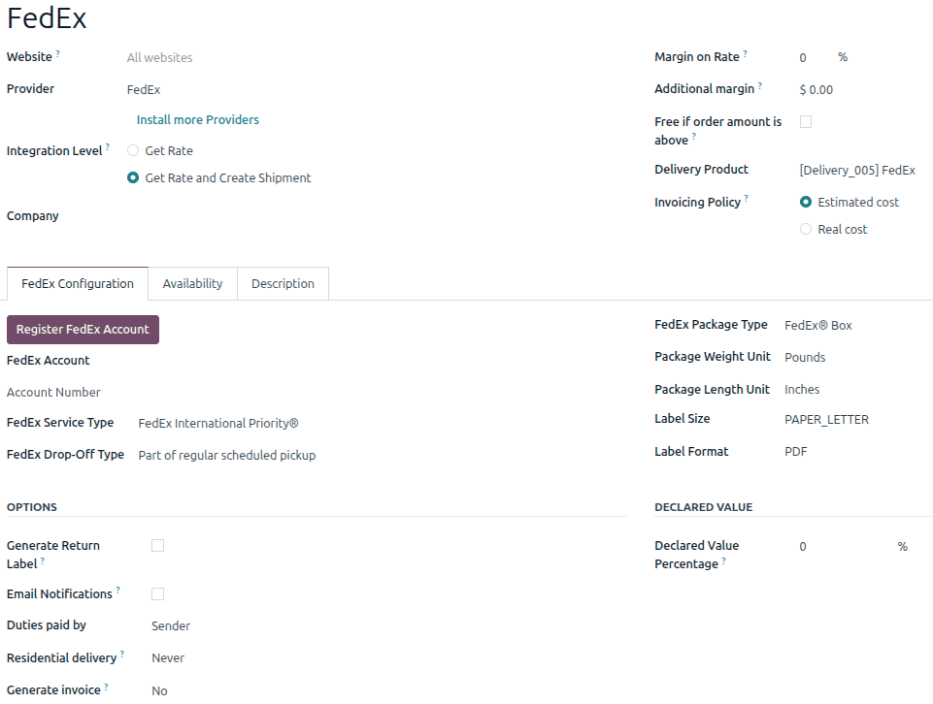
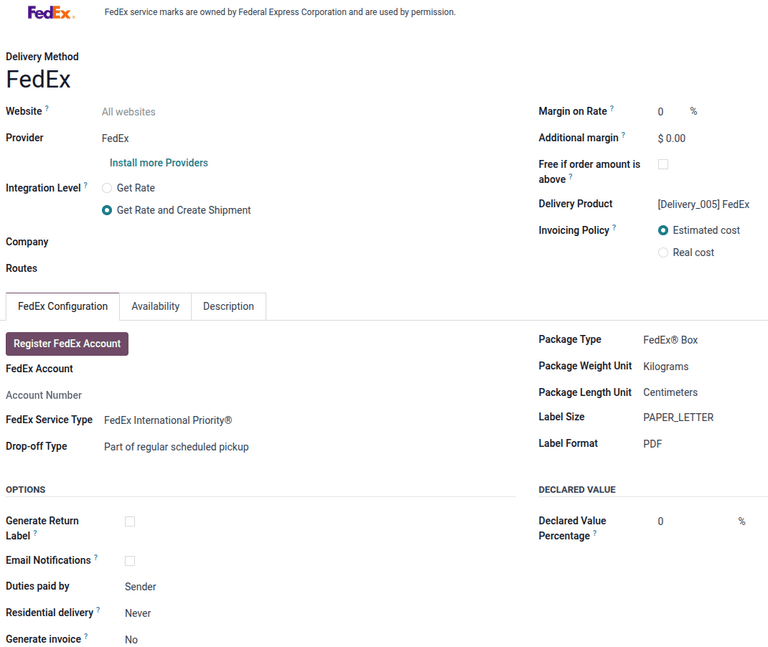
[IMP] inventory: fedex connector v18+
X-original-commit: 6f4ec9bc7b5b474410b62cebf80653c1a40ab958

diff --git a/content/applications/inventory_and_mrp/inventory/shipping_receiving/setup_configuration/fedex.rst b/content/applications/inventory_and_mrp/inventory/shipping_receiving/setup_configuration/fedex.rst
@@ -3,19 +3,9 @@ FedEx integration
 =================
 
 Integrating a FedEx account with Odoo's **Inventory** app makes it possible to :doc:`calculate
-delivery rates <../setup_configuration>`, and :doc:`generate delivery labels <labels>` within Odoo.
+shipping rates <../setup_configuration>` and :doc:`generate shipping labels <labels>` within Odoo.
 This is accomplished by enabling the FedEx *shipping connector*, then configuring at least one
 *shipping method*.
-
-.. warning::
-   As of October 21, 2025, the FedEx integration using the latest API is temporarily unavailable
-   while Odoo finalizes its solution-provider validation for FedEx. *New* setups are currently
-   blocked, and *existing* integrations using the *FedEx Shipping (Legacy)* provider will stop
-   working as of June 1, 2026.
-
-   For a temporary solution, the :doc:`Sendcloud integration <sendcloud_shipping>` also supports
-   FedEx services. To request further assistance, `submit a support ticket
-   <https://www.odoo.com/help>`_.
 
 .. note::
    This documentation contains configuration details specific to FedEx integration. See the
@@ -25,61 +15,68 @@ This is accomplished by enabling the FedEx *shipping connector*, then configurin
 Enable shipping connector
 =========================
 
-To enable the shipping connector for FedEx, open the :menuselection:`Apps` app. Search for `FedEx`.
-:guilabel:`Activate` the shipping connector.
+To enable the shipping connector for FedEx, first :doc:`activate developer mode
+<../../../../general/developer_mode>`. Then open the :menuselection:`Apps` app and search for
+`FedEx`. :guilabel:`Activate` the `delivery_fedex_certified` shipping connector.
 
-Configure delivery method
+.. image:: fedex/correct-module.png
+   :alt: The delivery_fedex_certified connector is installed.
+
+.. important::
+   Other FedEx modules are out-of-date and should not be installed.
+
+Configure shipping method
 =========================
 
-After the FedEx shipping connector is enabled, it is necessary to configure at least one delivery
-method. After doing so, the delivery method can be included in sales orders (SOs) and used to
-compute delivery costs and print delivery labels.
+After the FedEx shipping connector is enabled, ensure that *Delivery Methods* is enabled. Navigate
+to :menuselection:`Inventory app --> Configuration --> Settings`, and scroll to the *Shipping*
+section. Enable :guilabel:`Delivery Methods`, then click :guilabel:`Save` at the top of the
+*Settings* page.
 
-To see all delivery methods for every shipper with a connector enabled, navigate to
-:menuselection:`Inventory app --> Configuration --> Delivery Methods`.
+After *Delivery Methods* is enabled, it is necessary to configure at least one shipping method.
+After doing so, the shipping method can be included in sales orders (SOs), and used to compute
+shipping costs and print shipping labels.
 
-Select a delivery method to open its form. Alternatively, click :guilabel:`New` to open a blank
-form, and configure a new delivery method.
+To see all shipping methods for every shipper with a connector enabled, navigate to
+:menuselection:`Inventory app --> Configuration --> Shipping Methods`.
+
+Select a FedEx shipping method to open its form. Alternatively, click :guilabel:`New` to open a
+blank form, and configure a new shipping method.
 
 .. image:: fedex/fedex-form.png
-   :alt: The form for a FedEx delivery method.
+   :alt: The form for a FedEx shipping method.
 
 General information
 -------------------
 
-At the very top of a delivery method form are fields used to configure the way the method operates
+At the very top of a shipping method form are fields used to configure the way the method operates
 in Odoo. In the :guilabel:`Provider` field, select :guilabel:`FedEx` from the drop-down menu, if it
 is not already selected.
 
-The rest of the fields in this section are general to all delivery providers. For details on how to
-fill them out, see the documentation on :doc:`third-party shippers <third_party_shipper>`.
+The remaining fields should be completed as outlined in the
+:ref:`inventory/shipping_receiving/configure-delivery-method` section.
 
 FedEx Configuration tab
 -----------------------
 
-The options in the *Fedex Configuration* tab of a FedEx shipping method form are used to connect the
-method to a FedEx account and configure the delivery details associated with the method (drop-off
+The options in the *FedEx Configuration* tab of a FedEx shipping method form are used to connect the
+method to a FedEx account, and configure the shipping details associated with the method (drop-off
 type, package type, etc.).
 
-A FedEx business account is required to obtain the information needed to fill out the fields in
-this tab. To create a new account, navigate to FedEx's `Open Account
+A FedEx business account is required to obtain the information needed to fill out the fields in this
+tab. To create a new account, navigate to FedEx's `Open Account
 <https://www.fedex.com/en-us/open-account.html>`_ page, click on :guilabel:`Create Account`, and
 follow the instructions.
 
-Then, register the FedEx account in the database. Click the :guilabel:`Register FedEx Account`
-button. The *FedEx Account Registration* window opens. Accept the end user license agreement (EULA)
-by selecting the :guilabel:`I acknowledge the reading of the FedEx End User License Agreement` and
-:guilabel:`I accept the terms of FedEx EULA to start shipping` checkboxes, then click
-:guilabel:`Accept and Continue`.
+Register FedEx account in database
+~~~~~~~~~~~~~~~~~~~~~~~~~~~~~~~~~~
 
-An *account number* is the unique number assigned to each FedEx account.
+After registering for a business account through FedEx, register the FedEx account in the database.
+Click the :guilabel:`Register FedEx Account` button. The *FedEx Account Registration* window opens.
 
-To find a FedEx account number, log in to a FedEx account at https://www.fedex.com. Click on the
-account holder's name in the top-right corner of the screen, and select :menuselection:`My Profile`
-from the drop-down menu.
-
-On the profile page, click :guilabel:`Account Management` on the left side of the screen. The
-account number is displayed on this screen.
+Accept the end user license agreement (EULA) by selecting the :guilabel:`I acknowledge the reading
+of the FedEx End User License Agreement` and :guilabel:`I accept the terms of FedEx EULA to start
+shipping` checkboxes, then click :guilabel:`Accept and Continue`.
 
 In the *FedEx Account Registration - Shipper Information* window, enter the :guilabel:`FedEx Account
 Number`. Enter the name of the company in the :guilabel:`Customer Name` field and provide the
@@ -94,37 +91,53 @@ multi-factor authentication (MFA). Two options are available:
 - :guilabel:`Secure Code Validation`: Receive a PIN via :guilabel:`Email`, :guilabel:`SMS`, or
   :guilabel:`Voice Call`.
 
+Click :guilabel:`Continue` to proceed.
+
+If validating via invoice, in the *FedEx Account Registration - Invoice Validation* window, enter a
+recent :guilabel:`Invoice Number`, :guilabel:`Invoice Date`, :guilabel:`Invoice Amount`, and the
+:guilabel:`Currency` used on the invoice. Click :guilabel:`Validate Invoice`.
+
+.. image:: fedex/invoice-validation.png
+   :alt: A completed Invoice Validation form.
+
+If validating via PIN, in the *FedEx Account Registration - PIN Validation* window, select from the
+list of :guilabel:`PIN Options`, then click :guilabel:`Send Code`. Enter the :guilabel:`6 digits
+secure code`, then click :guilabel:`Validate Code`.
+
+.. image:: fedex/pin-validation.png
+   :alt: A completed PIN Validation form.
+
 If successful, the *FedEx Account Registration - Success* window displays, and the account is
 available for all companies. To change this setting, click :guilabel:`Open FedEx Account Form` and
 modify the company settings.
 
-In the *FedEx Configuration* tab, provide more information about the delivery method:
+In the *FedEx Configuration* tab, provide more information about the shipping method:
 
 - :guilabel:`FedEx Service Type`: Select the FedEx service used to ship a package.
-- :guilabel:`FedEx Drop-Off Type`: Select the method for getting a package into FedEx's possession.
-- :guilabel:`FedEx Package Type`: Select the type of package used for the shipping method.
+- :guilabel:`Drop-Off Type`: Select the method for getting a package into FedEx's possession.
+- :guilabel:`Package Type`: Select the type of package used for the shipping method.
 - :guilabel:`Package Weight Unit`: Select the unit of measure used to weigh packages.
 - :guilabel:`Package Length Unit`: This field changes based on what is selected in the
   :guilabel:`Package Weight Unit` field. If :guilabel:`Pounds` is selected, the length unit updates
   to :guilabel:`Inches`. If :guilabel:`Kilograms` is selected, the length unit updates to
   :guilabel:`Centimeters`.
-- :guilabel:`Label Type`: Select the type of shipping label used for packages.
+- :guilabel:`Label Size`: Select the type of shipping label used for packages.
 - :guilabel:`Label Format`: Select the file format used by Odoo to generate shipping labels.
 
 .. important::
-   The options that should be selected on the *FedEx Configuration* tab of a delivery method depend
+   The options that should be selected on the *FedEx Configuration* tab of a shipping method depend
    on the negotiated shipping services of the associated FedEx account. To confirm the available
    services for a FedEx account, visit the *Account Management* page after logging in to the FedEx
    website or speak with a customer service representative.
 
 Options section
-~~~~~~~~~~~~~~~
+***************
 
 The :guilabel:`Options` section of the *FedEx Configuration* tab provides a few additional options
-to further configure the delivery method:
+to further configure the shipping method:
 
-- :guilabel:`Generate Return Label`: Select this checkbox to automatically generate a label when a
-  delivery is validated.
+- :guilabel:`Generate Return Label`: Select this checkbox to automatically generate a return label
+  when a delivery is validated.
 - :guilabel:`Email Notifications`: Select this checkbox to send updates via email to customers, if
   an email address is configured for the customer.
 - :guilabel:`Duties paid by`: Use the drop-down menu to select whether duty charges should be paid
@@ -135,26 +148,14 @@ to further configure the delivery method:
   international shipments.
 
 Declared Value section
-~~~~~~~~~~~~~~~~~~~~~~
+**********************
 
 Specify the :guilabel:`Declared Value Percentage` for insurance purposes.
 
-Activate delivery method
-========================
+Test environment unavailable
+============================
 
-By default, delivery methods in Odoo are created within a *test environment*. This means they can
-only be used for testing purposes, and are unable to generate actual delivery orders.
+FedEx does not allow users to create a test environment in Odoo to verify that the shipping method
+is set up properly.
 
-To activate a delivery method in a *production environment*, click the :icon:`fa-stop`
-:guilabel:`Test Environment` smart button at the top of the delivery method form. After doing so,
-the smart buttons changes to read :icon:`fa-play` :guilabel:`Production Environment`.
-
-With the production environment enabled, validating a delivery order using the delivery method
-generates an actual delivery label with FedEx.
-
-Click the :icon:`fa-play` :guilabel:`Production Environment` smart button to return the delivery
-method to a test environment.
-
-.. warning::
-   **Do not** enable the production environment for a delivery method before it is ready to be used
-   for actual delivery orders. Doing so may lead to the creation of unwanted charges with FedEx.
+To test the setup, create shipments in Odoo, then cancel the request through FedEx.
